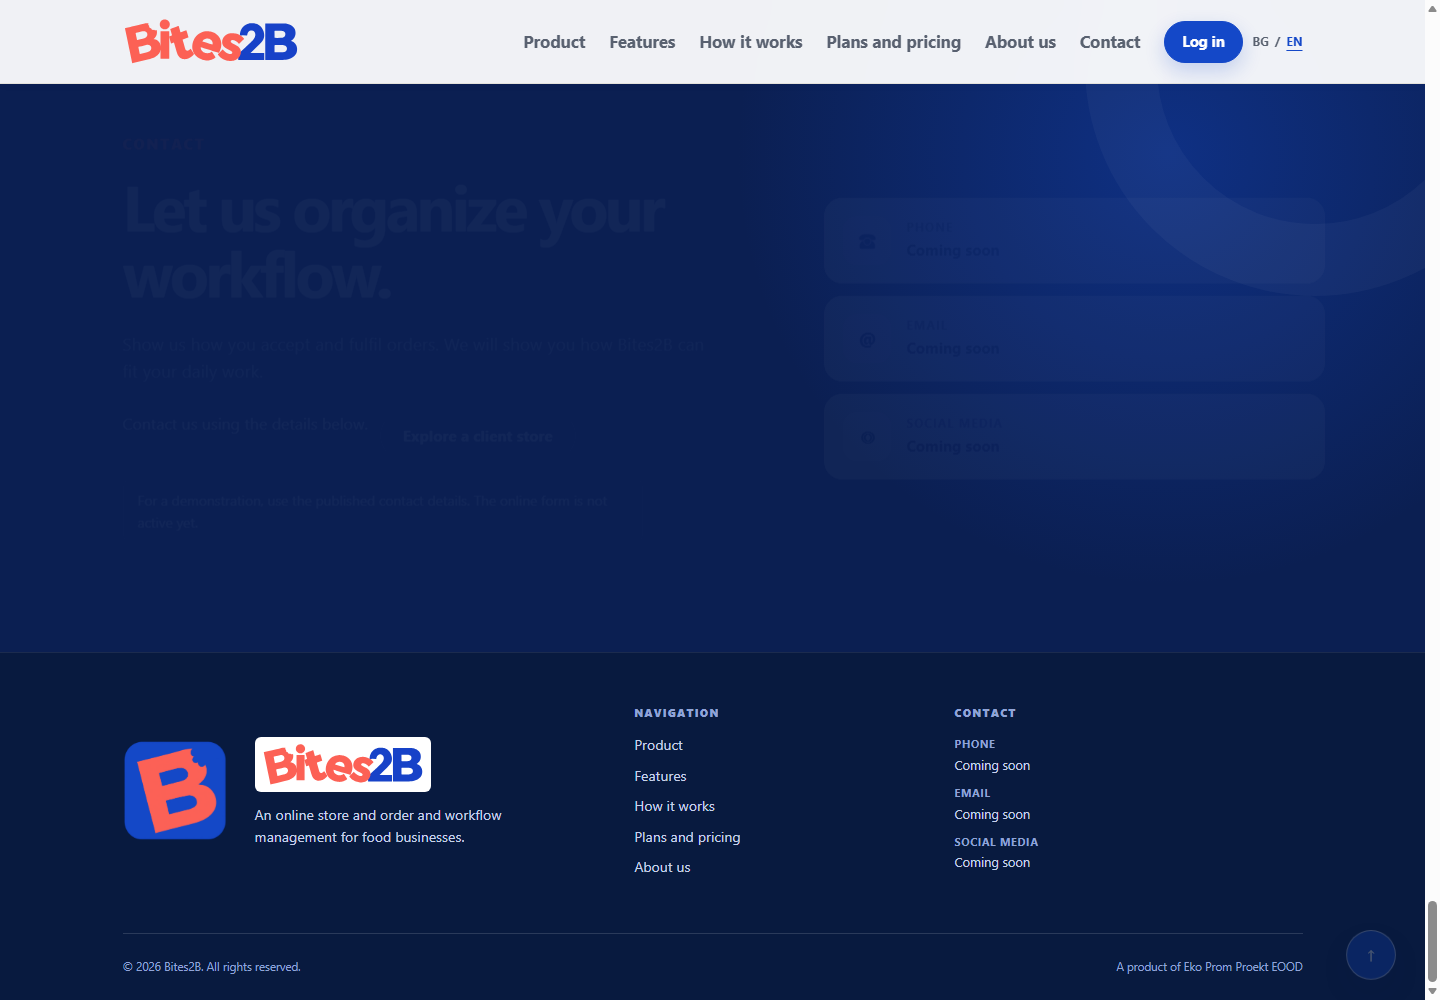
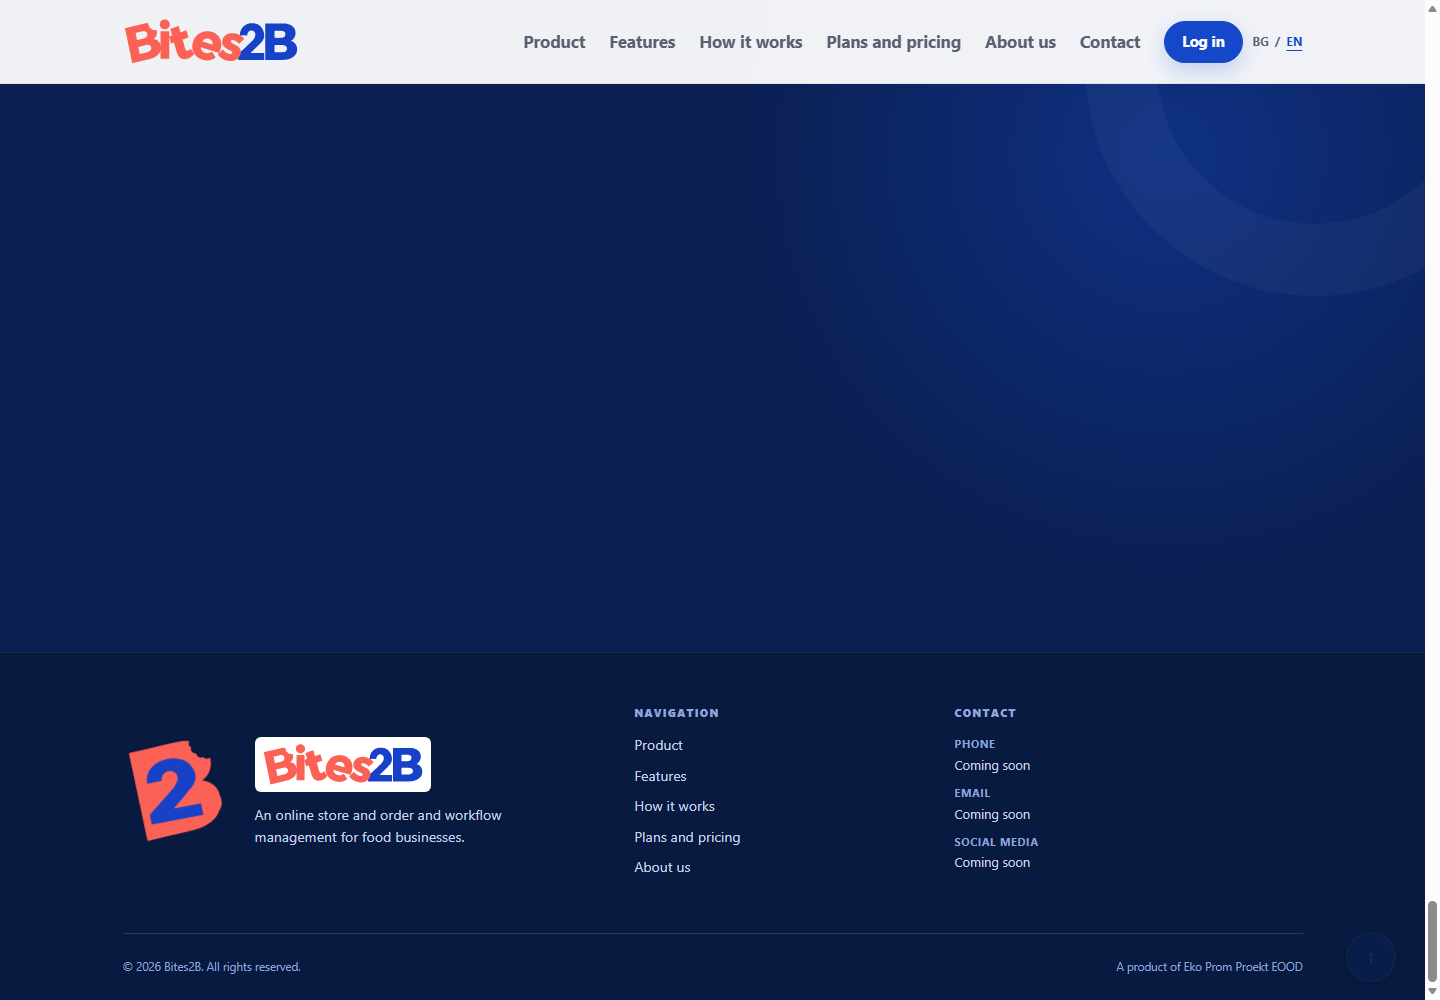
Replace compact mark concepts with screenshot-matched symbol

Changed region(s): [[0.0625, 0.744, 0.1562, 0.837], [0.9375, 0.93, 0.9688, 0.961]]

diff --git a/marketing-corrected-d2-review/README.md b/marketing-corrected-d2-review/README.md
@@ -1,13 +1,15 @@
-# Corrected D2 brand review
+# Bites2B compact symbol
 
-The static compact mark concepts use the original vector paths from PR #35, commit 283ba42c6a0bf0fdde70ec44c7d03b38d0e612cd, file docs/marketing-preview/wordmark-intro-d/index.html.
+Faithful static reproduction of the supplied screenshot: one tilted coral B with a bite at its upper-right edge and the blue number 2 centered inside. Transparent SVG master; no square, border or separate blue B.
 
-Concepts A and B are for review only. The existing compact icon and favicon remain unchanged. The master SVGs have transparent backgrounds.
+The original complete symbol was not present in the repository or public preview assets. The B and 2 contours come from the approved PR #35 vector source at commit 283ba42c6a0bf0fdde70ec44c7d03b38d0e612cd, docs/marketing-preview/wordmark-intro-d/index.html. The screenshot supplied with the request guided the composition and relative placement. The older square B-only PNG was checked as a silhouette reference, not reused as the output.
 
-- [Concept A SVG](concept-a-connected-2b.svg) · [large preview](concept-a-connected-2b-large.png)
-- [Concept B SVG](concept-b-integrated-2.svg) · [large preview](concept-b-integrated-2-large.png)
-- [Favicon sizes 16/32/64/180 comparison](favicon-comparison.png)
-- [Marketing desktop header](marketing-desktop-header.png) · [desktop footer](marketing-desktop-footer.png)
-- [Marketing mobile header](marketing-mobile-header.png) · [mobile footer](marketing-mobile-footer.png)
+- SVG master: bites2b-compact-symbol.svg
+- [512 px PNG](bites2b-compact-symbol-512.png)
+- [180 px PNG](bites2b-compact-symbol-180.png)
+- [64 px PNG](bites2b-compact-symbol-64.png)
+- [32 px PNG](bites2b-compact-symbol-32.png)
+- [16 px PNG](bites2b-compact-symbol-16.png)
+- [Comparison sheet](bites2b-compact-symbol-comparison.png)
 
-Each concept also has separate PNG outputs at 16, 32, 64 and 180 px. The actual icon metadata was not changed.
+PNG dimensions and alpha transparency were checked. The existing app-login/shared storefront icons are unchanged; only the marketing page references this symbol for its favicon metadata and compact marks.
